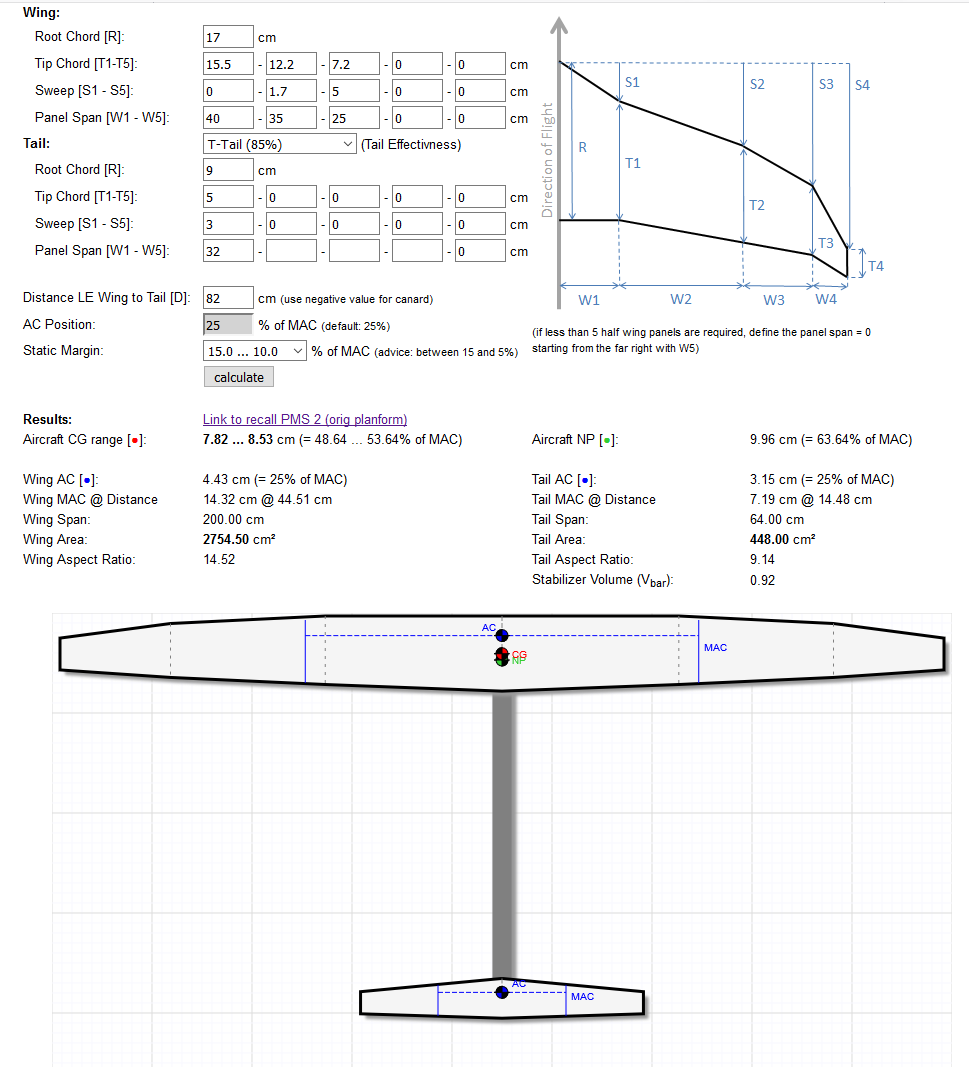
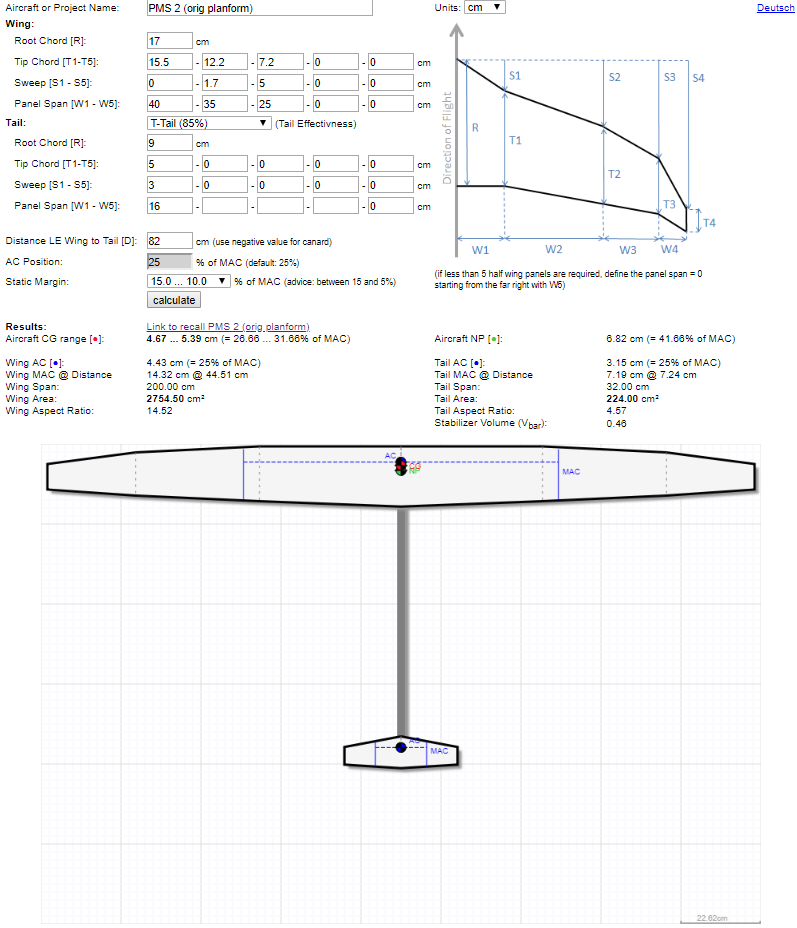
fixed CoG calcs

diff --git a/Plans/Overview.md b/Plans/Overview.md
@@ -6,6 +6,7 @@ The initial prototype PMS 2 was built by Dave Pope with a vac-bagged foam-cored 
 
 The wing moulds were build several years later by Pete Glassey. The wing design and mold CAD work was done by Joe Wurts. The CAM 3D CNC milling was done by Peter Williams. The moulds were milled from laminated corian bench-top material. 
 
-##CoG Caclulations
-https://www.ecalc.ch/cgcalc.php?deeplink=PMS%202%20(orig%20planform);cm;17;15.5;12.2;7.2;0;0;0;1.7;5;0;0;40;35;25;0;0;0.85;9;5;0;0;0;0;3;0;0;0;0;32;%20;%20;%20;0;82;25;10;
+##CoG Caclulations 
+Note: this is based on original triple-tapered prototype planform; which should be close enough as a starting point.
+https://www.ecalc.ch/cgcalc.php?deeplink=PMS%202%20(orig%20planform);cm;17;15.5;12.2;7.2;0;0;0;1.7;5;0;0;40;35;25;0;0;0.85;9;5;0;0;0;0;3;0;0;0;0;16;%20;%20;%20;0;82;25;10;
 
